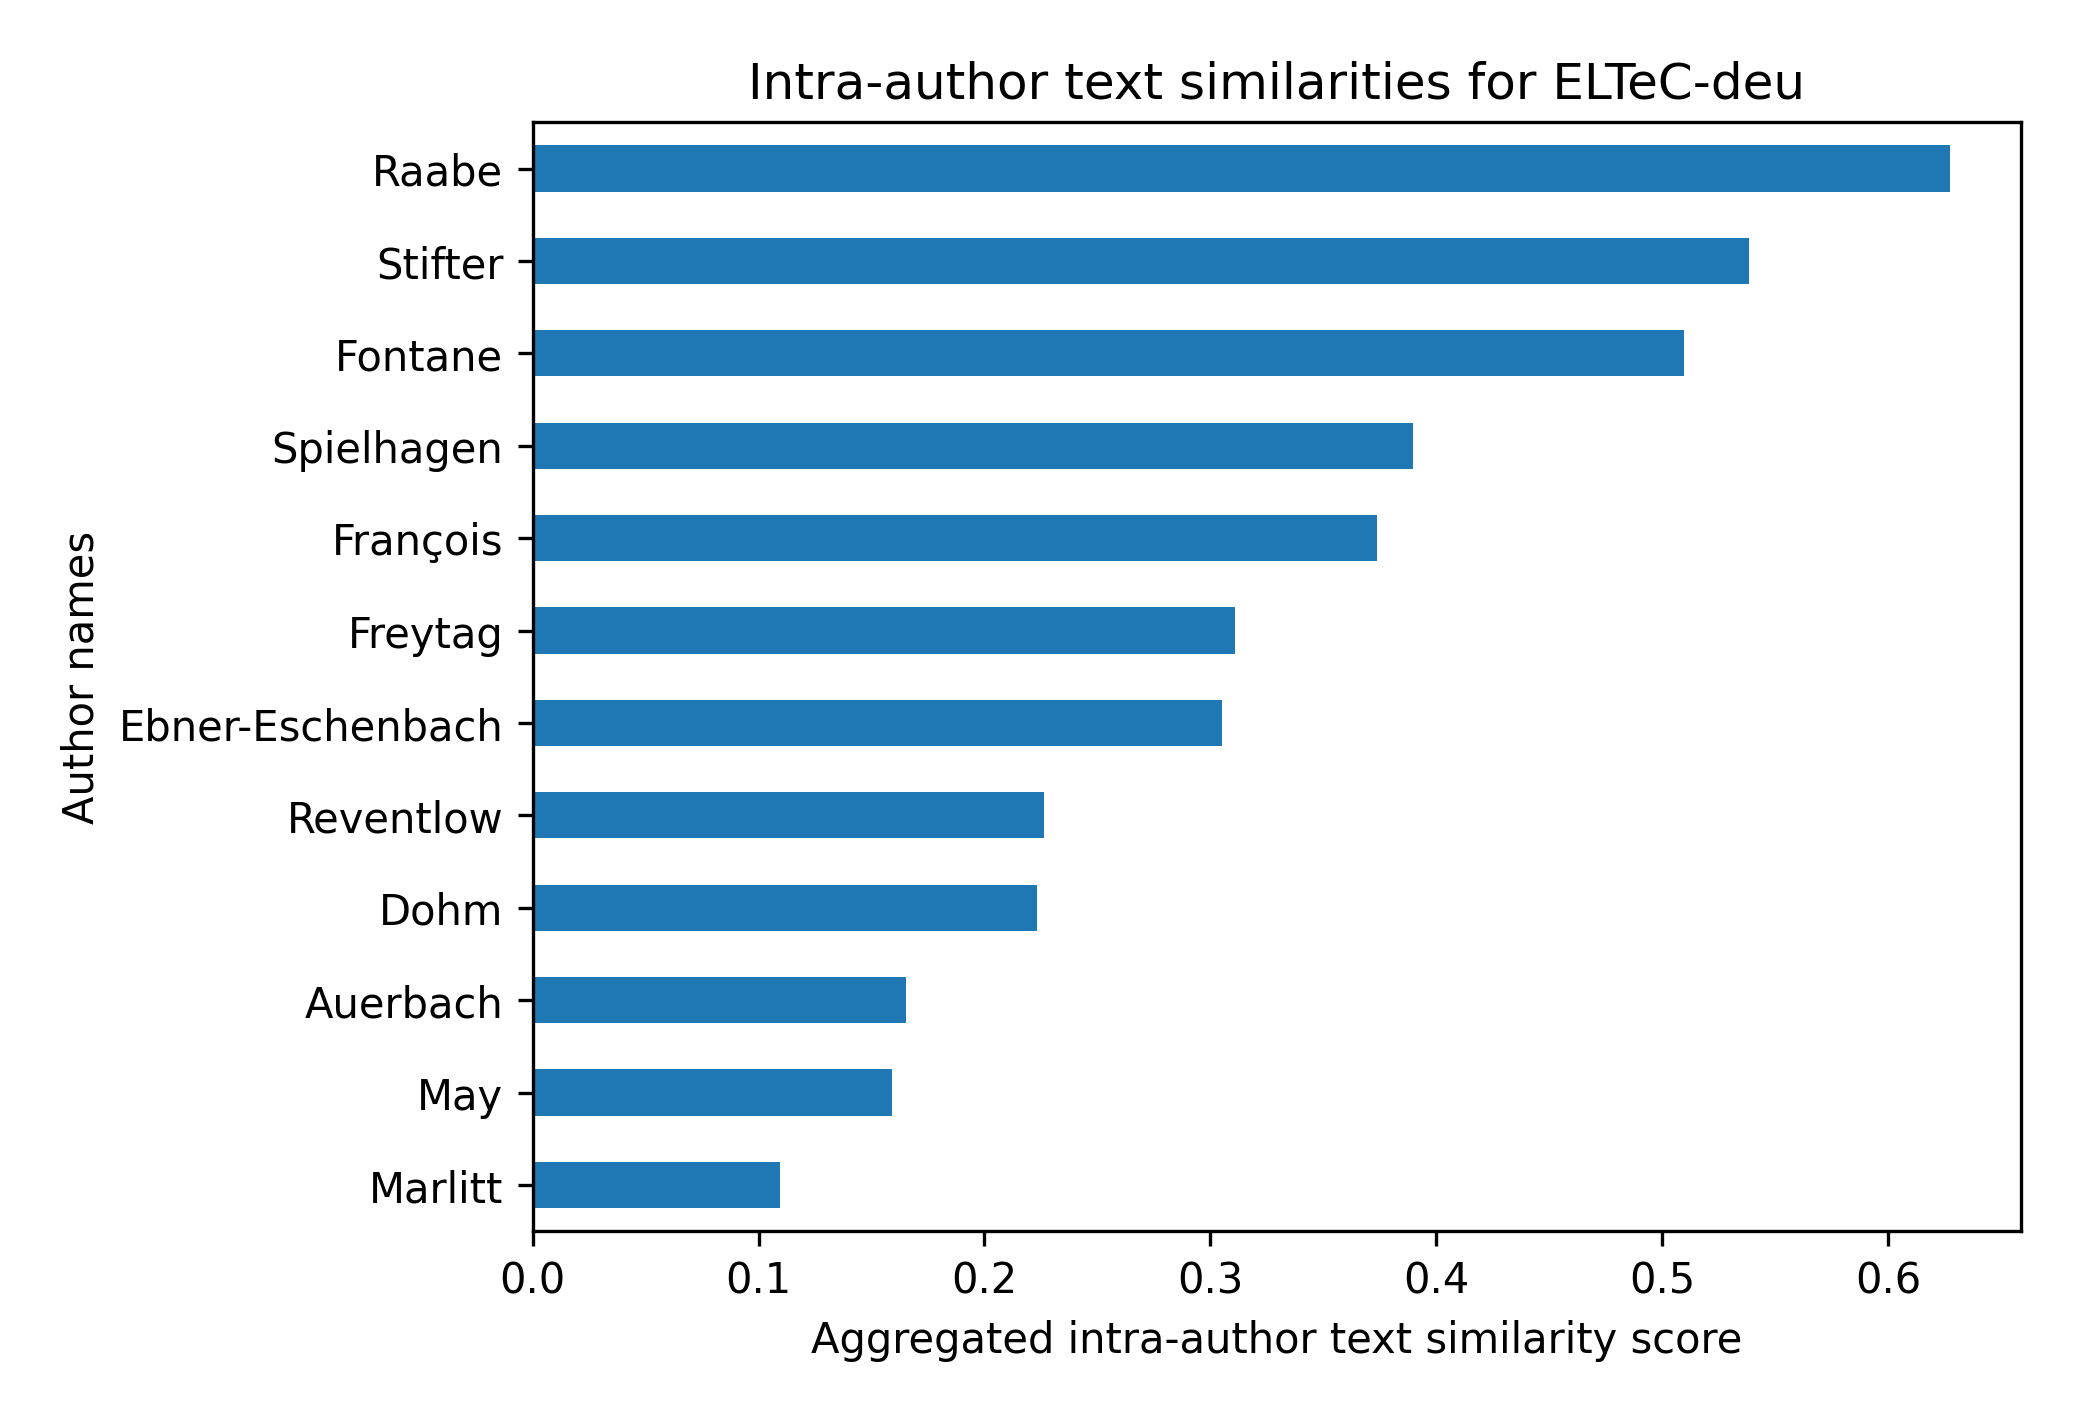
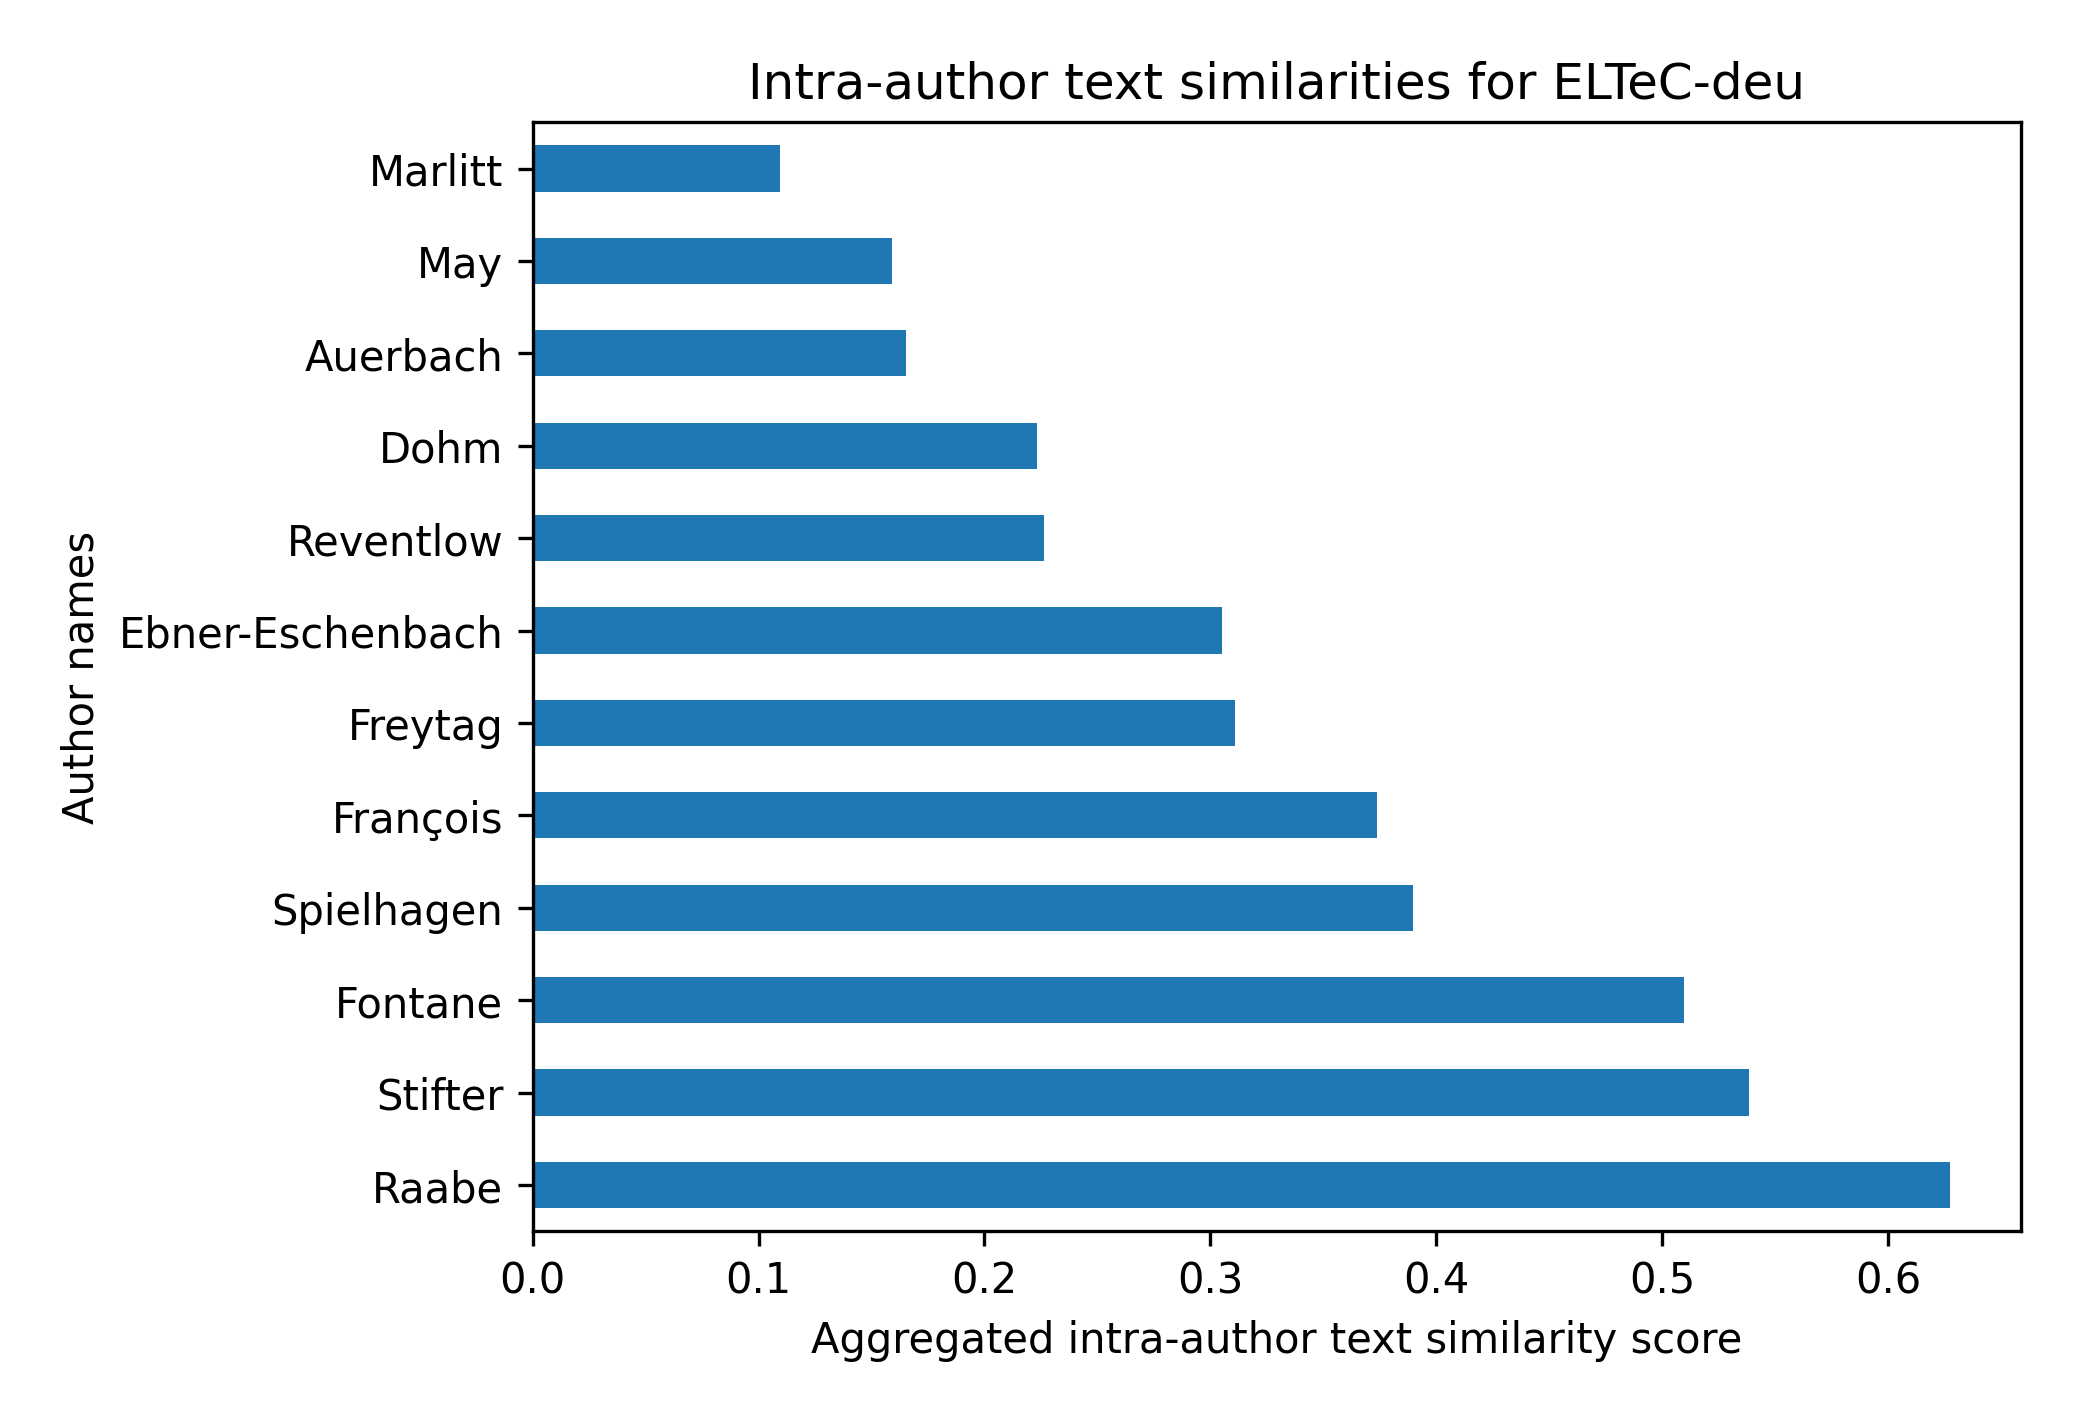
fix

diff --git a/scripts/analyse_metadata.py b/scripts/analyse_metadata.py
@@ -74,7 +74,7 @@ def get_variability(metadata):
     variability = pd.DataFrame(scaler.fit_transform(variability), columns=variability.columns, index=variability.index)
     # Create an aggregate value, here a simple unweighted mean for each author
     variability["aggregated"] = np.mean(variability, axis=1)
-    variability.sort_values("aggregated", ascending=True, inplace=True)
+    variability.sort_values("aggregated", ascending=False, inplace=True)
     print(variability)
     return variability
 
@@ -100,6 +100,7 @@ def save_data(data, datafile):
 
 
 def plot_data(data, lang, datafile): 
+    data.sort_values("aggregated", ascending=False, inplace=True)
     ax = data["aggregated"].plot.barh(title="Intra-author text similarities for ELTeC-" + lang)
     ax.set_xlabel("Aggregated intra-author text similarity score")
     ax.set_ylabel("Author names")
